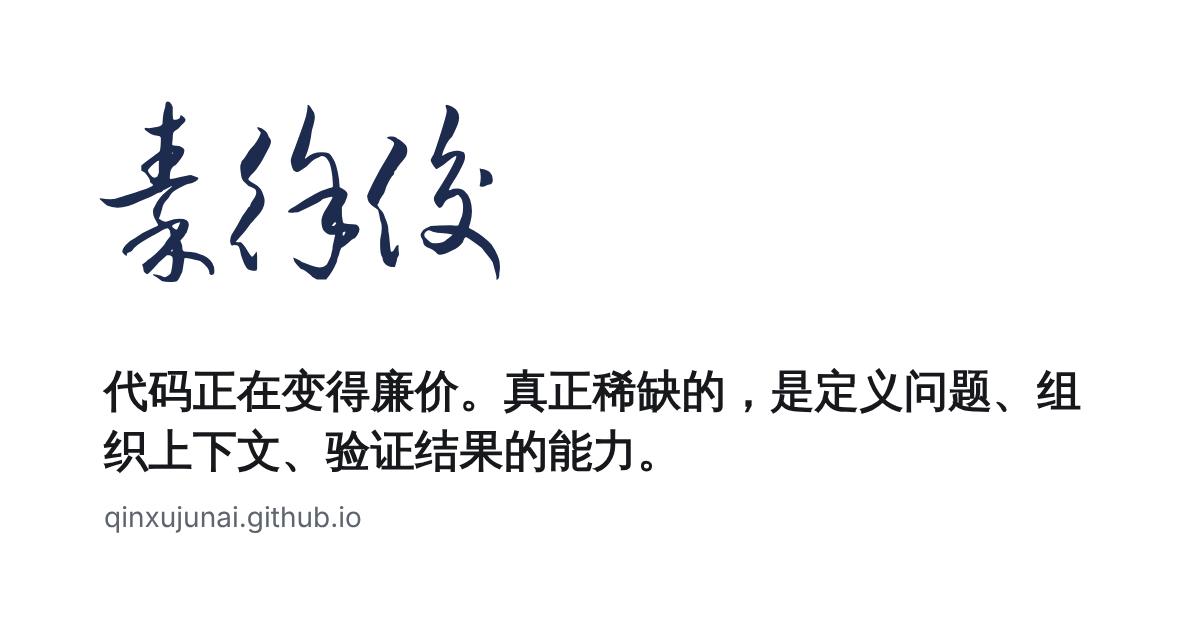
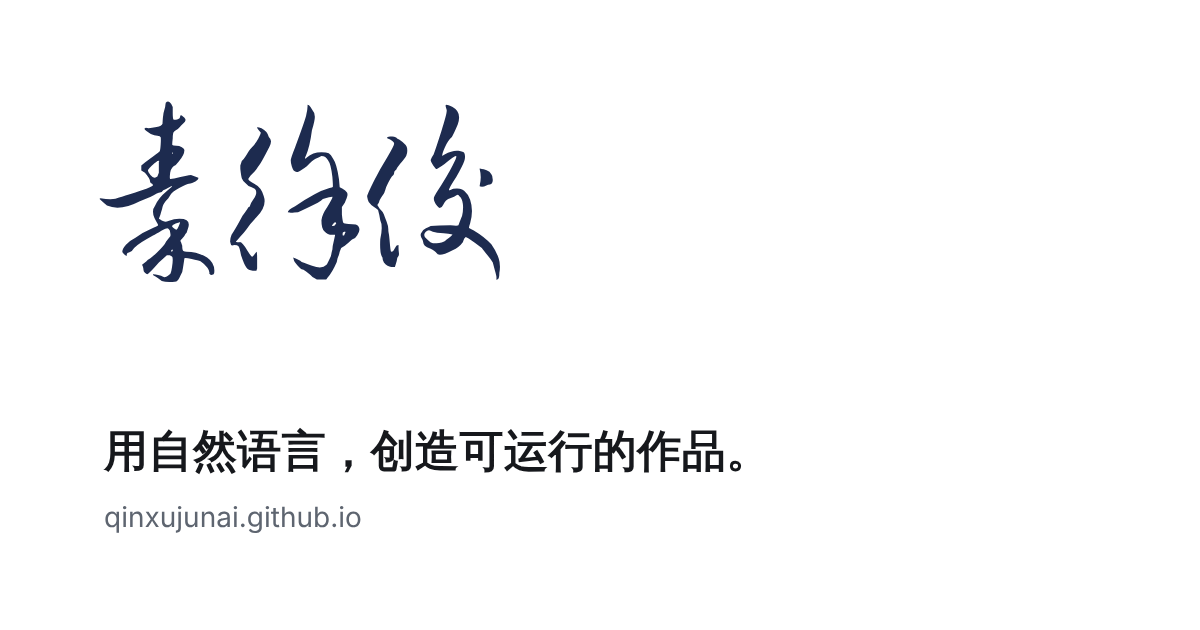
首屏改用本人写下的话；中文按词断行；作品列表统一单栏
- 首屏句换成他在 ai.vibecoding 亲手写下的「用自然语言，创造可运行的作品」
- 构建时用 Intl.Segmenter 按词插入 <wbr>，配合 keep-all，中文不再在词中间断行；人名、公司名整体不断
- 桌面端作品列表改为单栏，与手机一致
- 反馈记录链接注明为英文

Changed region(s): [[0.0617, 0.573, 0.8325, 0.754], [0.8633, 0.573, 0.8942, 0.6635]]

diff --git a/index.html b/index.html
@@ -4,7 +4,7 @@
 <meta charset="utf-8">
 <meta name="viewport" content="width=device-width, initial-scale=1, viewport-fit=cover">
 <title>秦徐俊</title>
-<meta name="description" content="代码正在变得廉价。真正稀缺的，是定义问题、组织上下文、验证结果的能力。秦徐俊的个人网站，作品有 VoiceFlow、万象成文、ai.vibecoding。">
+<meta name="description" content="用自然语言，创造可运行的作品。秦徐俊的个人网站，作品有 VoiceFlow、万象成文、ai.vibecoding。">
 <meta name="color-scheme" content="light dark">
 <meta name="theme-color" content="#ffffff">
 <script>(function(){var t=null;try{t=localStorage.getItem('qxj.theme')}catch(e){}if(t!=='light'&&t!=='dark'){t=window.matchMedia&&matchMedia('(prefers-color-scheme: dark)').matches?'dark':'light'}document.documentElement.dataset.theme=t;var m=document.querySelector('meta[name=theme-color]');if(m)m.setAttribute('content',t==='dark'?'#121316':'#ffffff');var r=document.documentElement,s=null;try{s=sessionStorage.getItem('qxj.signed')}catch(e){}if(s!=='1'&&!(window.matchMedia&&matchMedia('(prefers-reduced-motion: reduce)').matches)){r.classList.add('sig-pending');setTimeout(function(){r.classList.remove('sig-pending')},3000)}})()</script>
@@ -17,7 +17,7 @@
 <link rel="alternate" hreflang="x-default" href="https://qinxujunai.github.io/">
 <meta property="og:type" content="website">
 <meta property="og:title" content="秦徐俊">
-<meta property="og:description" content="代码正在变得廉价。真正稀缺的，是定义问题、组织上下文、验证结果的能力。秦徐俊的个人网站，作品有 VoiceFlow、万象成文、ai.vibecoding。">
+<meta property="og:description" content="用自然语言，创造可运行的作品。秦徐俊的个人网站，作品有 VoiceFlow、万象成文、ai.vibecoding。">
 <meta property="og:url" content="https://qinxujunai.github.io/">
 <meta property="og:image" content="https://qinxujunai.github.io/og.png">
 <meta property="og:image:width" content="1200">
@@ -37,8 +37,8 @@
 <main id="main">
 <header class="intro">
 <h1><svg class="sig" aria-hidden="true" focusable="false" viewBox="18 2 224 104"><path d="M56.8 5.2L56.8 5.2Q58 4.4 59.2 6.4L59.2 6.4L60 8L60 11.2Q60 14.4 60.4 14.8Q60.8 15.2 62.4 14.8L62.4 14.8Q64 14.4 64 13.6L64 13.6Q64 11.6 65.6 13.2L65.6 13.2Q66.4 13.6 66.8 14.4L66.8 14.4Q67.6 15.6 65.6 17.2L65.6 17.2Q64.4 18.4 64 18.8Q63.6 19.2 62.8 20L62.8 20Q61.6 20.8 60.8 21.4Q60 22 60 25.2L60 25.2Q59.6 28.4 59.8 28.8Q60 29.2 62 29.2L62 29.2Q63.6 29.2 65 30Q66.4 30.8 66.4 31.6L66.4 31.6Q66.4 34.4 63.2 38L63.2 38Q61.6 40 61.2 40Q60.8 40 59.8 41.2Q58.8 42.4 58.6 44Q58.4 45.6 58.4 46.4Q58.4 47.2 58.6 47.4Q58.8 47.6 60.8 47.2L60.8 47.2Q68.4 45.2 70 45.2L70 45.2Q72.4 46 74 46.8L74 46.8Q74.4 47.6 72.4 48.8L72.4 48.8Q71.6 49.2 70.6 49.6Q69.6 50 68.8 50L68.8 50Q68 50 63.8 52.2Q59.6 54.4 58.8 56L58.8 56L57.6 58Q54.8 60.8 54.4 62.8L54.4 62.8Q54.4 63.2 54 64.4Q53.6 65.6 53.2 67.2L53.2 67.2L52.4 69.2L53.2 69.6Q53.6 70 54.6 70.4Q55.6 70.8 56 70.8L56 70.8Q56.8 70.8 57.6 70.4L57.6 70.4Q60.8 69.2 63.6 69.2L63.6 69.2Q66.4 69.2 67.6 70Q68.8 70.8 68.8 72.4L68.8 72.4Q68.8 73.2 68.4 74.4Q68 75.6 67.6 76.8L67.6 76.8Q66.8 77.6 66.6 78.2Q66.4 78.8 65.2 80Q64 81.2 64.2 81.4Q64.4 81.6 65.2 84L65.2 84Q65.2 86.4 65.8 86.8Q66.4 87.2 67.6 87.2L67.6 87.2Q73.6 87.2 78.8 90.4L78.8 90.4Q82.8 93.2 82.8 97.6L82.8 97.6Q82.8 99.2 82.4 99.6L82.4 99.6Q80.8 100.4 80.4 99.6L80.4 99.6Q80 99.2 80 99.2L80 99.2Q80.4 98 79 96Q77.6 94 75.2 92.4L75.2 92.4Q74 92 70.4 91.2Q66.8 90.4 66.4 90.8L66.4 90.8Q66.4 90.8 66 93.6Q65.6 96.4 65.2 98.4L65.2 98.4Q64.4 100 63.6 101.6Q62.8 103.2 62 103.6L62 103.6Q60.8 104 58.2 103.8Q55.6 103.6 54 103.2L54 103.2Q50 100.4 49.2 100L49.2 100Q49.2 100 49.2 99.6L49.2 99.6Q50 99.6 53.6 100.4L53.6 100.4Q54.8 101.2 55.6 101.2L55.6 101.2Q56.4 101.2 57.4 100.4Q58.4 99.6 58.8 99.2L58.8 99.2Q59.2 98.4 59.6 95.8Q60 93.2 60 91.6L60 91.6Q60 90 59.6 89.8Q59.2 89.6 58.4 89.2L58.4 89.2L56.8 89.2L52.4 93.2Q46.8 99.6 46 99.6L46 99.6Q45.6 99.6 44.8 98.8Q44 98 44 97.2L44 97.2Q44 96.4 43.6 95.2L43.6 95.2L43.2 94.4L44.8 93.2Q46.4 91.6 46.4 91.6L46.4 91.6Q47.2 91.6 51.4 87.6Q55.6 83.6 56.4 81.6L56.4 81.6Q56.8 81.2 58 79.6L58 79.6Q58.8 78.8 58.8 78.2Q58.8 77.6 58.4 75.6L58.4 75.6Q57.6 74.4 57 74.4Q56.4 74.4 54 75.6L54 75.6Q50.8 77.6 49.2 78.4L49.2 78.4L45.6 80.4Q39.2 84 37.6 86.8L37.6 86.8Q36.4 87.6 36 87.6L36 87.6Q34.8 87.6 34.8 89.2L34.8 89.2Q34.8 89.6 34.8 89.6L34.8 89.6Q34.4 89.6 33.4 88.6Q32.4 87.6 32.4 87.2L32.4 87.2Q32.4 85.6 34.4 83.4Q36.4 81.2 39.6 79.6L39.6 79.6Q43.2 76.8 48 74.8L48 74.8Q52 73.2 52 72.8Q52 72.4 51.4 71.4Q50.8 70.4 50 68.8Q49.2 67.2 49.2 65.4Q49.2 63.6 50.4 62L50.4 62Q52 58 56.8 54L56.8 54L59.2 52Q59.6 51.6 59.6 51.2L59.6 51.2Q59.2 51.2 57.6 52.2Q56 53.2 54.8 53.6L54.8 53.6Q54 54.8 53 54.8Q52 54.8 48 57.2L48 57.2L42 59.6Q31.2 65.2 24 62L24 62Q21.2 59.6 20 58.4L20 58.4Q20 58 20.4 58L20.4 58Q26 58.8 28.6 58.2Q31.2 57.6 45.6 52.8L45.6 52.8Q49.2 51.2 49.2 50.8L49.2 50.8Q49.2 50 48 49.6L48 49.6Q47.6 49.2 47.6 48.8L47.6 48.8Q47.6 47.2 44.8 44L44.8 44L42.8 42.8L42.8 41.6L42.8 40L44.8 38.4Q46.8 36.8 49.6 34.8Q52.4 32.8 52.8 32.4Q53.2 32 53.4 28.6Q53.6 25.2 53.4 24.6Q53.2 24 51.6 23.8Q50 23.6 48 22.8L48 22.8Q47.2 22.4 45.6 21.2Q44 20 44.8 19.6L44.8 19.6Q44.8 19.2 46.8 19.6L46.8 19.6Q48.4 19.6 51.2 19Q54 18.4 54.4 17.2L54.4 17.2Q54.4 16.8 54.6 14Q54.8 11.2 55.4 9.6Q56 8 56 6.8Q56 5.6 56.8 5.2ZM60 33.6L60 33.6L60 33.2Q60 32.8 60 32.8L60 32.8Q59.6 33.2 59.6 33.2L59.6 33.2Q59.6 33.6 59.6 33.6L59.6 33.6Q59.6 33.6 60 33.6ZM52.4 38L52.4 38Q53.2 37.2 51.6 37.6L51.6 37.6Q51.2 38 50 38.8L50 38.8Q46.4 42 46.4 42.8L46.4 42.8Q46.4 43.6 47.8 45.2Q49.2 46.8 50 46.8L50 46.8Q50.4 46.8 51.6 46L51.6 46L52.4 44L52.4 41.6Q52.4 38.4 52.4 38ZM64 71.2L64 71.2Q64 70.8 63.6 71.2L63.6 71.2Q63.2 71.2 61.6 71.8Q60 72.4 59.6 73.2L59.6 73.2Q59.6 73.6 60.6 74.4Q61.6 75.2 62 75.2L62 75.2Q62.4 75.2 63.2 73.4Q64 71.6 64 71.2ZM60 86.4L60 86.4Q60 85.6 59.2 86.4L59.2 86.4Q59.2 86.8 59.2 87Q59.2 87.2 59.4 87.2Q59.6 87.2 59.8 87Q60 86.8 60 86.4Z"/><path d="M106.2 19.2L106.2 19.2Q106.2 18.8 108.6 19.6L108.6 19.6Q111.8 21.2 112.6 24.4L112.6 24.4Q113.8 25.6 113.8 26.8Q113.8 28 113.0 29.6Q112.2 31.2 110.0 35.4Q107.8 39.6 106.6 40.8L106.6 40.8Q105.8 42.4 103.6 44.6Q101.4 46.8 101.4 47.6L101.4 47.6Q101.4 48.4 104.6 50L104.6 50Q108.6 52 109.8 56.8L109.8 56.8Q111.8 62.4 105.8 68.4L105.8 68.4Q102.6 71.6 100.2 75.2L100.2 75.2Q99.0 76.8 96.8 79.2Q94.6 81.6 94.6 81.8Q94.6 82 95.4 82Q96.2 82 96.6 82L96.6 82Q97.8 81.6 101.0 86.8L101.0 86.8Q103.0 90 103.4 90Q103.8 90 104.8 88.6Q105.8 87.2 105.8 87.2L105.8 87.2Q106.2 87.2 106.2 90.8Q106.2 94.4 106.2 96.4L106.2 96.4L105.8 97.6L103.8 97.6Q101.4 97.6 100.2 95.8Q99.0 94 97.4 89.2L97.4 89.2Q96.6 84.8 96.0 84.2Q95.4 83.6 93.8 83.6L93.8 83.6Q92.2 84 92.0 83.6Q91.8 83.2 91.4 81.6L91.4 81.6Q91.4 80 92.2 78L92.2 78Q94.6 74.4 98.2 67.6L98.2 67.6Q100.6 64.4 101.0 63.6Q101.4 62.8 101.8 62.8Q102.2 62.8 102.4 61.8Q102.6 60.8 104.0 58.8Q105.4 56.8 105.6 55.8Q105.8 54.8 105.6 53.8Q105.4 52.8 103.2 52Q101.0 51.2 100.2 50L100.2 50Q98.2 48.4 97.8 47Q97.4 45.6 97.0 42L97.0 42L97.0 40L97.8 37.6Q99.0 36.4 100.0 34.8Q101.0 33.2 101.6 32.2Q102.2 31.2 103.4 30L103.4 30Q105.4 28 106.8 25.4Q108.2 22.8 108.2 22L108.2 22Q108.2 22 107.0 20.6Q105.8 19.2 106.2 19.2ZM133.8 7.6L133.8 7.6Q133.8 6.8 133.8 6.8L133.8 6.8Q134.6 6.8 135.4 8Q136.2 9.2 136.6 10L136.6 10Q137.8 11.2 137.8 13.4Q137.8 15.6 136.2 20.8L136.2 20.8Q135.0 30 133.0 34.4L133.0 34.4Q132.2 36 132.4 36.2Q132.6 36.4 133.4 35.6L133.4 35.6Q136.6 32.8 141.4 32.8L141.4 32.8Q144.2 32.8 145.4 33.4Q146.6 34 147.8 36.4L147.8 36.4Q149.8 39.2 151.0 47.6L151.0 47.6L151.4 52L153.0 52.8Q154.6 53.6 155.4 54.8L155.4 54.8Q155.8 55.6 155.6 56.6Q155.4 57.6 154.2 60.4L154.2 60.4L152.6 62.8L152.6 66.8Q153.0 70.8 153.4 71.4Q153.8 72 156.2 72Q158.6 72 160.2 72.4L160.2 72.4Q162.2 73.2 162.2 75.2L162.2 75.2Q162.2 76.4 161.0 78.2Q159.8 80 159.0 80.2Q158.2 80.4 157.2 81.4Q156.2 82.4 154.2 84L154.2 84L152.2 85.2L151.4 87.2Q151.0 89.2 150.6 89.8Q150.2 90.4 149.8 92.8L149.8 92.8Q147.4 98.4 144.6 101.6L144.6 101.6Q144.2 102.4 144.0 102.4Q143.8 102.4 141.6 102.4Q139.4 102.4 139.0 102.4Q138.6 102.4 138.2 102L138.2 102Q136.2 101.2 135.4 100L135.4 100Q134.6 99.2 133.0 98Q131.4 96.8 130.6 96.8L130.6 96.8Q130.2 96.8 128.2 94.6Q126.2 92.4 126.2 91.2L126.2 91.2Q125.8 90.4 125.8 90.4L125.8 90.4Q126.2 90.4 128.2 91.4Q130.2 92.4 130.6 92.8L130.6 92.8Q132.6 93.6 138.6 95.6L138.6 95.6Q142.2 96.4 144.2 94.4L144.2 94.4Q145.0 93.2 146.6 89.6L146.6 89.6Q147.0 87.2 147.4 86L147.4 86Q147.4 84.4 148.2 81.2Q149.0 78 148.8 78Q148.6 78 147.4 78L147.4 78Q144.6 78 143.0 76L143.0 76Q142.2 75.2 141.8 73.8Q141.4 72.4 141.4 70L141.4 70Q141.8 66.8 144.6 62.8L144.6 62.8Q147.8 57.6 147.4 57.2L147.4 57.2Q147.4 56.8 142.2 58.4L142.2 58.4Q141.4 59.2 139.4 60.4L139.4 60.4Q133.0 63.6 128.6 65.6L128.6 65.6Q127.8 65.6 126.4 65.8Q125.0 66 124.0 65.8Q123.0 65.6 123.0 65.6L123.0 65.6Q123.0 64.4 127.0 62.4L127.0 62.4Q138.6 54.4 145.8 52.4L145.8 52.4Q147.4 52 147.6 51.8Q147.8 51.6 147.4 46.4L147.4 46.4Q146.6 39.2 145.0 37.2L145.0 37.2Q143.8 34.8 141.4 34.8L141.4 34.8Q139.8 35.6 138.2 36.4Q136.6 37.2 133.4 40.4L133.4 40.4Q130.2 42.8 128.8 43.4Q127.4 44 126.2 42.8L126.2 42.8Q125.8 42.4 125.2 40.6Q124.6 38.8 124.6 37.2L124.6 37.2Q124.6 36 127.0 30L127.0 30Q132.2 16 133.0 12.8Q133.8 9.6 133.8 7.6ZM149.0 72.4L149.0 72.4Q149.8 71.6 149.2 71.2Q148.6 70.8 147.8 72L147.8 72Q146.6 73.2 147.8 73.2L147.8 73.2Q149.0 73.2 149.0 72.4ZM154.6 76.4L154.6 76.4Q154.2 76 153.8 76.4L153.8 76.4Q153.0 76.4 153.0 77.2Q153.0 78 153.0 78.2Q153.0 78.4 153.8 78.4L153.8 78.4Q153.8 78.4 154.2 77.4Q154.6 76.4 154.6 76.4Z"/><path d="M228.0 42L228.0 42Q228.0 42 228.0 41.8Q228.0 41.6 229.2 42L229.2 42Q230.0 42 231.8 42.6Q233.6 43.2 234.4 44.8L234.4 44.8Q235.2 45.6 235.2 48L235.2 48Q235.2 48.8 234.8 49.6Q234.4 50.4 233.6 50.4L233.6 50.4Q232.4 50.4 232.0 50.8L232.0 50.8Q229.6 52 228.8 51.6L228.8 51.6Q228.0 51.6 228.0 51.2L228.0 51.2Q229.2 46.4 228.0 42ZM177.6 24.4L177.6 24.4Q178.0 24 180.2 24.2Q182.4 24.4 182.8 25.2L182.8 25.2Q184.0 25.6 185.8 27.2Q187.6 28.8 188.0 29.6L188.0 29.6Q188.4 30.4 188.4 32L188.4 32Q188.4 33.6 187.8 34.8Q187.2 36 184.4 39.2L184.4 39.2Q182.8 41.2 182.6 41.8Q182.4 42.4 181.8 42.8Q181.2 43.2 181.2 44Q181.2 44.8 180.8 45.2L180.8 45.2Q179.2 46.4 176.8 52L176.8 52Q176.0 54.8 175.6 55.4Q175.2 56 174.2 57.4Q173.2 58.8 172.8 60.4L172.8 60.4L172.0 61.6L173.2 63.6Q175.2 65.6 175.6 66.8L175.6 66.8Q176.0 68 177.0 70.6Q178.0 73.2 178.0 74.8Q178.0 76.4 178.2 77Q178.4 77.6 178.8 82L178.8 82Q179.2 87.2 179.6 87.2L179.6 87.2Q180.8 87.2 181.2 86L181.2 86Q181.6 85.2 182.0 84.6Q182.4 84 182.6 83.8Q182.8 83.6 183.6 83.6L183.6 83.6Q183.6 83.6 183.6 85Q183.6 86.4 183.8 87.8Q184.0 89.2 183.4 89.8Q182.8 90.4 182.8 91.2Q182.8 92 182.0 94.4L182.0 94.4L181.6 95.6L179.6 95.6Q177.6 95.6 175.6 93.2L175.6 93.2Q174.8 91.6 174.8 90.4L174.8 90.4Q173.2 88.4 173.6 80.4L173.6 80.4Q175.2 73.2 173.6 70L173.6 70Q173.2 67.2 172.4 64.4L172.4 64.4Q171.6 63.6 170.0 62.6Q168.4 61.6 168.0 60.8L168.0 60.8Q167.2 60.4 166.8 58.8Q166.4 57.2 166.4 56.8L166.4 56.8Q166.8 55.2 170.2 48.4Q173.6 41.6 177.6 35.2L177.6 35.2Q181.2 29.2 181.2 28L181.2 28Q181.2 27.2 180.2 26.6Q179.2 26 178.4 25.6L178.4 25.6Q176.8 25.2 177.6 24.4ZM213.2 8L213.2 8Q218.4 10.8 216.0 17.6L216.0 17.6Q214.0 22.4 212.8 24.4L212.8 24.4Q210.8 26 209.0 30Q207.2 34 207.6 34.8L207.6 34.8Q207.6 34.8 208.8 34L208.8 34Q213.2 31.6 216.4 32L216.4 32Q219.2 32.4 219.6 33.2L219.6 33.2Q220.4 35.2 219.6 37.6L219.6 37.6Q218.8 40 215.2 46.4L215.2 46.4Q211.2 52.4 211.2 53.6L211.2 53.6Q211.2 53.6 211.6 53.6Q212.0 53.6 212.6 53.2Q213.2 52.8 213.6 52.8L213.6 52.8Q218.4 52 220.4 54.8L220.4 54.8Q222.0 56 222.8 58.8L222.8 58.8Q224.8 64.8 222.8 71.6L222.8 71.6Q222.0 74 222.2 74.2Q222.4 74.4 224.8 75.6L224.8 75.6Q230.8 79.2 234.4 83.2L234.4 83.2Q237.2 87.2 238.4 90.8Q239.6 94.4 238.8 98.8L238.8 98.8Q238.8 102.4 237.6 102.4L237.6 102.4Q237.2 102.8 237.2 102.6Q237.2 102.4 237.2 101.2L237.2 101.2Q237.2 100.4 236.4 97.6Q235.6 94.8 235.2 93.2L235.2 93.2Q234.4 91.6 232.2 89Q230.0 86.4 229.2 85.2L229.2 85.2Q225.6 82.4 222.0 80L222.0 80L220.4 79.2L219.6 80Q219.2 80.8 218.8 82L218.8 82Q216.8 84.8 213.2 86.4L213.2 86.4Q205.6 90.4 204.4 88L204.4 88Q204.0 87.2 201.2 85.6L201.2 85.6Q198.8 84.8 198.0 84Q197.2 83.2 196.8 80.8L196.8 80.8Q194.8 78 196.4 76.4L196.4 76.4Q196.8 75.2 198.6 74.4Q200.4 73.6 201.2 73.2L201.2 73.2Q205.6 72.8 212.0 72.8L212.0 72.8Q216.0 73.2 216.4 72.8L216.4 72.8Q216.8 71.6 218.4 67.6L218.4 67.6Q219.2 64 218.8 61Q218.4 58 216.8 56.8L216.8 56.8Q216.4 56 216.0 56Q215.6 56 214.0 57.2L214.0 57.2Q212.0 58 210.8 58.4L210.8 58.4Q209.6 58.8 208.0 61.6L208.0 61.6Q207.2 63.2 206.4 63.2L206.4 63.2Q206.0 63.6 204.8 62.2Q203.6 60.8 203.2 59.6L203.2 59.6Q202.8 58.4 203.0 57.6Q203.2 56.8 204.4 54.8L204.4 54.8Q210.4 45.6 213.2 40L213.2 40Q216.0 34.8 215.0 34.8Q214.0 34.8 208.8 39.2L208.8 39.2Q204.8 42 204.4 42Q204.0 42 202.6 40Q201.2 38 201.2 37.2Q201.2 36.4 202.8 34L202.8 34Q204.0 30.8 207.0 21.4Q210.0 12 210.0 10L210.0 10Q210.0 9.6 209.6 8.4Q209.2 7.2 209.4 7Q209.6 6.8 209.8 6.8Q210.0 6.8 211.0 7Q212.0 7.2 213.2 8ZM200.8 75.6L200.8 75.6Q199.6 75.2 198.4 76.4L198.4 76.4Q197.2 77.6 198.0 79.2L198.0 79.2Q198.4 79.6 199.8 81Q201.2 82.4 202.0 82.4L202.0 82.4Q202.8 82.8 205.8 82.4Q208.8 82 209.6 80.8L209.6 80.8Q210.4 80.4 211.8 79.2Q213.2 78 213.2 78L213.2 78Q212.8 77.2 204.8 76.8L204.8 76.8Q202.0 76.4 200.8 75.6Z"/></svg><span class="visually-hidden">秦徐俊</span></h1>
-<p class="lede">代码正在变得廉价。真正稀缺的，是定义问题、组织上下文、验证结果的能力。</p>
-<p class="now">我是秦徐俊，在奥普智能做云 AI 项目经理。工作之外，我把自己想用的工具亲手做出来。</p>
+<p class="lede">用<wbr>自然语言，<wbr>创造<wbr>可运行的作品。</p>
+<p class="now">我是<wbr>秦徐俊，<wbr>在<wbr>奥普智能<wbr>做<wbr>云 AI 项目经理。<wbr>工作<wbr>之外，<wbr>我把<wbr>自己<wbr>想用<wbr>的<wbr>工具<wbr>亲手做<wbr>出来。</p>
 <p class="actions"><a class="button primary" href="#contact">加我微信</a><a class="button" href="#work">看看作品</a></p>
 </header>
 
@@ -46,33 +46,33 @@
 <h2 id="work-title">作品</h2>
 <article class="feature" id="voiceflow">
 <h3>VoiceFlow</h3>
-<p class="tagline">让想法成文。按一下，说出你的话。</p>
+<p class="tagline">让<wbr>想法<wbr>成文。<wbr>按<wbr>一下，<wbr>说出<wbr>你<wbr>的话。</p>
 <div class="stage voice" role="img" aria-label="VoiceFlow: 按一下开始，再按一下完成. 明早十点，把方案同步给团队。">
 <kbd aria-hidden="true">F2</kbd>
 <p class="hint" aria-hidden="true">按一下开始，再按一下完成</p>
 <div class="capsule" aria-hidden="true"><span class="bars"><i></i><i></i><i></i></span><span>明早十点，把方案同步给团队。<span class="caret"></span></span></div>
 </div>
-<p class="desc">Windows 离线语音输入。在你正在用的输入框里听写，录音和识别都留在自己的电脑上。</p>
-<p class="decision">用户提过 12 条反馈，我逐条写下处理结论和理由。比如没有加在线识别：它会打破离线这个承诺。 <a href="https://github.com/qinxujunai/VoiceFlow/blob/master/docs/feedback-review-2026-07-28.md" rel="noopener">看反馈与决策记录</a></p>
+<p class="desc">Windows 离线<wbr>语音<wbr>输入。<wbr>在<wbr>你<wbr>正在<wbr>用<wbr>的<wbr>输入<wbr>框<wbr>里<wbr>听写，<wbr>录音<wbr>和<wbr>识别<wbr>都<wbr>留在<wbr>自己<wbr>的<wbr>电脑<wbr>上。</p>
+<p class="decision">用户<wbr>提过 12 条<wbr>反馈，<wbr>我<wbr>逐条<wbr>写下<wbr>处理<wbr>结论<wbr>和<wbr>理由。<wbr>比如<wbr>没有<wbr>加<wbr>在线识别：<wbr>它<wbr>会<wbr>打破<wbr>离线<wbr>这个<wbr>承诺。 <a href="https://github.com/qinxujunai/VoiceFlow/blob/master/docs/feedback-review-2026-07-28.md" rel="noopener">看反馈与决策记录（英文）</a></p>
 <p class="links"><a href="https://qinxujunai.github.io/VoiceFlow/" rel="noopener">官网<span class="visually-hidden">: VoiceFlow</span></a><a href="https://github.com/qinxujunai/VoiceFlow" rel="noopener">源码<span class="visually-hidden">: VoiceFlow</span></a></p>
 </article>
 <ul class="work">
 <li id="wanxiang">
 <h3>万象成文</h3>
-<p class="tagline">把视频、播客和图文，直接变成可用的文字与媒体。</p>
-<p class="desc">Windows 本地优先。只做三件事：音视频转文字、提取图文、下载原始媒体；账号和支付都不做。</p>
+<p class="tagline">把<wbr>视频、<wbr>播<wbr>客<wbr>和<wbr>图<wbr>文，<wbr>直接<wbr>变成<wbr>可用<wbr>的<wbr>文字<wbr>与<wbr>媒体。</p>
+<p class="desc">Windows 本地<wbr>优先。<wbr>只做<wbr>三<wbr>件<wbr>事：<wbr>音<wbr>视频<wbr>转<wbr>文字、<wbr>提取<wbr>图<wbr>文、<wbr>下载<wbr>原始<wbr>媒体；<wbr>账<wbr>号<wbr>和<wbr>支付<wbr>都不<wbr>做。</p>
 <p class="links"><a href="https://qinxujunai.github.io/Audio2Text/" rel="noopener">官网<span class="visually-hidden">: 万象成文</span></a><a href="https://github.com/qinxujunai/Audio2Text" rel="noopener">源码<span class="visually-hidden">: 万象成文</span></a></p>
 </li>
 <li id="vibecoding">
 <h3>ai.vibecoding</h3>
-<p class="tagline">用自然语言，创造可运行的作品。</p>
-<p class="desc">我写下的自然语言编程方法：先访谈，再计划，实现之后拿证据验证。附七段可以直接复制的指令。</p>
+<p class="tagline">自然语言<wbr>编<wbr>程<wbr>的<wbr>工程<wbr>化<wbr>实践。</p>
+<p class="desc">我<wbr>写下<wbr>的<wbr>自然语言<wbr>编<wbr>程<wbr>方法：<wbr>先<wbr>访<wbr>谈，<wbr>再<wbr>计划，<wbr>实现<wbr>之后<wbr>拿<wbr>证据<wbr>验证。<wbr>附<wbr>七<wbr>段<wbr>可以<wbr>直接<wbr>复制<wbr>的<wbr>指令。</p>
 <p class="links"><a href="https://qinxujunai.github.io/qinxujun-ai-vibecoding/" rel="noopener">官网<span class="visually-hidden">: ai.vibecoding</span></a><a href="https://github.com/qinxujunai/qinxujun-ai-vibecoding" rel="noopener">源码<span class="visually-hidden">: ai.vibecoding</span></a></p>
 </li>
 <li id="work-method">
 <h3>AI Work Method</h3>
-<p class="tagline">把 AI 用成能力。</p>
-<p class="desc">给职场人的 AI 实战课程，八章：从高质量对话、智能体协作，到可验收的交付。</p>
+<p class="tagline">把 AI 用<wbr>成<wbr>能力。</p>
+<p class="desc">给<wbr>职场<wbr>人的 AI 实战<wbr>课程，<wbr>八章：<wbr>从<wbr>高<wbr>质量<wbr>对话、<wbr>智能体<wbr>协作，<wbr>到<wbr>可<wbr>验收<wbr>的<wbr>交付。</p>
 <p class="links"><a href="https://qinxujunai.github.io/ai-work-method/" rel="noopener">官网<span class="visually-hidden">: AI Work Method</span></a><a href="https://github.com/qinxujunai/ai-work-method" rel="noopener">源码<span class="visually-hidden">: AI Work Method</span></a></p>
 </li>
 </ul>
@@ -81,14 +81,14 @@
 
 <section id="about" class="about" aria-labelledby="about-title">
 <h2 id="about-title">关于</h2>
-<p>我学的是网络与新媒体，最早的工作是拍片、写脚本、做内容。后来负责把 AI 接进公司的内容生产，再为企业客户设计 AI 方案。现在在奥普智能，做云 AI 项目经理。</p>
-<p>和 AI 对话时，补充背景往往比一句指令更长，于是有了 VoiceFlow；想把视频和播客变成能用的文字，于是有了万象成文。</p>
-<p>我相信做产品要慢一点：先问清楚要解决什么，再动手；对外说出的每个承诺，都要能被验证。</p>
+<p>我<wbr>学<wbr>的是<wbr>网络<wbr>与<wbr>新<wbr>媒体，<wbr>最早<wbr>的<wbr>工作<wbr>是<wbr>拍片、<wbr>写<wbr>脚本、<wbr>做<wbr>内容。<wbr>后来<wbr>负责<wbr>把 AI 接进<wbr>公司<wbr>的<wbr>内容生产，<wbr>再<wbr>为<wbr>企业<wbr>客户<wbr>设计 AI 方案。<wbr>现在<wbr>在<wbr>奥普智能，<wbr>做<wbr>云 AI 项目经理。</p>
+<p>和 AI 对话<wbr>时，<wbr>补充<wbr>背景<wbr>往往<wbr>比<wbr>一句<wbr>指令<wbr>更<wbr>长，<wbr>于是<wbr>有了 VoiceFlow；<wbr>想把<wbr>视频<wbr>和<wbr>播<wbr>客<wbr>变成<wbr>能<wbr>用<wbr>的<wbr>文字，<wbr>于是<wbr>有了<wbr>万象成文。</p>
+<p>我<wbr>相信<wbr>做<wbr>产品<wbr>要<wbr>慢<wbr>一点：<wbr>先<wbr>问<wbr>清楚<wbr>要<wbr>解决<wbr>什么，<wbr>再<wbr>动手；<wbr>对外<wbr>说出<wbr>的<wbr>每<wbr>个<wbr>承诺，<wbr>都要<wbr>能<wbr>被<wbr>验证。</p>
 </section>
 
 <section id="contact" class="contact" aria-labelledby="contact-title">
 <h2 id="contact-title">联系</h2>
-<p>想聊 AI 产品，或者只是打个招呼，都欢迎加我微信。</p>
+<p>想<wbr>聊 AI 产品，<wbr>或者<wbr>只是<wbr>打个<wbr>招呼，<wbr>都<wbr>欢迎<wbr>加<wbr>我<wbr>微<wbr>信。</p>
 <img class="qr" src="/assets/wechat-qr.png" width="232" height="232" alt="秦徐俊的微信二维码" decoding="async">
 <p class="qr-hint" data-qr-hint data-hint-wechat="长按二维码，选择「识别图中的二维码」即可添加；也可以保存到相册。" data-hint-phone="先保存或截图，再在微信「扫一扫」里从相册选这张图。" data-hint-desktop="打开手机微信，用「扫一扫」扫这张二维码。">用微信扫一扫；在微信里打开时，长按二维码即可识别。</p>
 <p class="actions"><a class="button" href="/assets/wechat-qr.png" download="qin-xujun-wechat.png" data-qr-save>保存二维码</a><a class="button" href="https://github.com/qinxujunai" rel="noopener">我的 GitHub</a></p>

diff --git a/en/index.html b/en/index.html
@@ -4,7 +4,7 @@
 <meta charset="utf-8">
 <meta name="viewport" content="width=device-width, initial-scale=1, viewport-fit=cover">
 <title>Qin Xujun</title>
-<meta name="description" content="Code is getting cheap. What stays scarce is defining the problem, curating context, and verifying the result. The personal site of Qin Xujun, maker of VoiceFlow, Wanxiang and ai.vibecoding.">
+<meta name="description" content="Use natural language to create working products. The personal site of Qin Xujun, maker of VoiceFlow, Wanxiang and ai.vibecoding.">
 <meta name="color-scheme" content="light dark">
 <meta name="theme-color" content="#ffffff">
 <script>(function(){var t=null;try{t=localStorage.getItem('qxj.theme')}catch(e){}if(t!=='light'&&t!=='dark'){t=window.matchMedia&&matchMedia('(prefers-color-scheme: dark)').matches?'dark':'light'}document.documentElement.dataset.theme=t;var m=document.querySelector('meta[name=theme-color]');if(m)m.setAttribute('content',t==='dark'?'#121316':'#ffffff');var r=document.documentElement,s=null;try{s=sessionStorage.getItem('qxj.signed')}catch(e){}if(s!=='1'&&!(window.matchMedia&&matchMedia('(prefers-reduced-motion: reduce)').matches)){r.classList.add('sig-pending');setTimeout(function(){r.classList.remove('sig-pending')},3000)}})()</script>
@@ -17,7 +17,7 @@
 <link rel="alternate" hreflang="x-default" href="https://qinxujunai.github.io/">
 <meta property="og:type" content="website">
 <meta property="og:title" content="Qin Xujun">
-<meta property="og:description" content="Code is getting cheap. What stays scarce is defining the problem, curating context, and verifying the result. The personal site of Qin Xujun, maker of VoiceFlow, Wanxiang and ai.vibecoding.">
+<meta property="og:description" content="Use natural language to create working products. The personal site of Qin Xujun, maker of VoiceFlow, Wanxiang and ai.vibecoding.">
 <meta property="og:url" content="https://qinxujunai.github.io/en/">
 <meta property="og:image" content="https://qinxujunai.github.io/og.png">
 <meta property="og:image:width" content="1200">
@@ -37,7 +37,7 @@
 <main id="main">
 <header class="intro">
 <h1><svg class="sig" aria-hidden="true" focusable="false" viewBox="18 2 224 104"><path d="M56.8 5.2L56.8 5.2Q58 4.4 59.2 6.4L59.2 6.4L60 8L60 11.2Q60 14.4 60.4 14.8Q60.8 15.2 62.4 14.8L62.4 14.8Q64 14.4 64 13.6L64 13.6Q64 11.6 65.6 13.2L65.6 13.2Q66.4 13.6 66.8 14.4L66.8 14.4Q67.6 15.6 65.6 17.2L65.6 17.2Q64.4 18.4 64 18.8Q63.6 19.2 62.8 20L62.8 20Q61.6 20.8 60.8 21.4Q60 22 60 25.2L60 25.2Q59.6 28.4 59.8 28.8Q60 29.2 62 29.2L62 29.2Q63.6 29.2 65 30Q66.4 30.8 66.4 31.6L66.4 31.6Q66.4 34.4 63.2 38L63.2 38Q61.6 40 61.2 40Q60.8 40 59.8 41.2Q58.8 42.4 58.6 44Q58.4 45.6 58.4 46.4Q58.4 47.2 58.6 47.4Q58.8 47.6 60.8 47.2L60.8 47.2Q68.4 45.2 70 45.2L70 45.2Q72.4 46 74 46.8L74 46.8Q74.4 47.6 72.4 48.8L72.4 48.8Q71.6 49.2 70.6 49.6Q69.6 50 68.8 50L68.8 50Q68 50 63.8 52.2Q59.6 54.4 58.8 56L58.8 56L57.6 58Q54.8 60.8 54.4 62.8L54.4 62.8Q54.4 63.2 54 64.4Q53.6 65.6 53.2 67.2L53.2 67.2L52.4 69.2L53.2 69.6Q53.6 70 54.6 70.4Q55.6 70.8 56 70.8L56 70.8Q56.8 70.8 57.6 70.4L57.6 70.4Q60.8 69.2 63.6 69.2L63.6 69.2Q66.4 69.2 67.6 70Q68.8 70.8 68.8 72.4L68.8 72.4Q68.8 73.2 68.4 74.4Q68 75.6 67.6 76.8L67.6 76.8Q66.8 77.6 66.6 78.2Q66.4 78.8 65.2 80Q64 81.2 64.2 81.4Q64.4 81.6 65.2 84L65.2 84Q65.2 86.4 65.8 86.8Q66.4 87.2 67.6 87.2L67.6 87.2Q73.6 87.2 78.8 90.4L78.8 90.4Q82.8 93.2 82.8 97.6L82.8 97.6Q82.8 99.2 82.4 99.6L82.4 99.6Q80.8 100.4 80.4 99.6L80.4 99.6Q80 99.2 80 99.2L80 99.2Q80.4 98 79 96Q77.6 94 75.2 92.4L75.2 92.4Q74 92 70.4 91.2Q66.8 90.4 66.4 90.8L66.4 90.8Q66.4 90.8 66 93.6Q65.6 96.4 65.2 98.4L65.2 98.4Q64.4 100 63.6 101.6Q62.8 103.2 62 103.6L62 103.6Q60.8 104 58.2 103.8Q55.6 103.6 54 103.2L54 103.2Q50 100.4 49.2 100L49.2 100Q49.2 100 49.2 99.6L49.2 99.6Q50 99.6 53.6 100.4L53.6 100.4Q54.8 101.2 55.6 101.2L55.6 101.2Q56.4 101.2 57.4 100.4Q58.4 99.6 58.8 99.2L58.8 99.2Q59.2 98.4 59.6 95.8Q60 93.2 60 91.6L60 91.6Q60 90 59.6 89.8Q59.2 89.6 58.4 89.2L58.4 89.2L56.8 89.2L52.4 93.2Q46.8 99.6 46 99.6L46 99.6Q45.6 99.6 44.8 98.8Q44 98 44 97.2L44 97.2Q44 96.4 43.6 95.2L43.6 95.2L43.2 94.4L44.8 93.2Q46.4 91.6 46.4 91.6L46.4 91.6Q47.2 91.6 51.4 87.6Q55.6 83.6 56.4 81.6L56.4 81.6Q56.8 81.2 58 79.6L58 79.6Q58.8 78.8 58.8 78.2Q58.8 77.6 58.4 75.6L58.4 75.6Q57.6 74.4 57 74.4Q56.4 74.4 54 75.6L54 75.6Q50.8 77.6 49.2 78.4L49.2 78.4L45.6 80.4Q39.2 84 37.6 86.8L37.6 86.8Q36.4 87.6 36 87.6L36 87.6Q34.8 87.6 34.8 89.2L34.8 89.2Q34.8 89.6 34.8 89.6L34.8 89.6Q34.4 89.6 33.4 88.6Q32.4 87.6 32.4 87.2L32.4 87.2Q32.4 85.6 34.4 83.4Q36.4 81.2 39.6 79.6L39.6 79.6Q43.2 76.8 48 74.8L48 74.8Q52 73.2 52 72.8Q52 72.4 51.4 71.4Q50.8 70.4 50 68.8Q49.2 67.2 49.2 65.4Q49.2 63.6 50.4 62L50.4 62Q52 58 56.8 54L56.8 54L59.2 52Q59.6 51.6 59.6 51.2L59.6 51.2Q59.2 51.2 57.6 52.2Q56 53.2 54.8 53.6L54.8 53.6Q54 54.8 53 54.8Q52 54.8 48 57.2L48 57.2L42 59.6Q31.2 65.2 24 62L24 62Q21.2 59.6 20 58.4L20 58.4Q20 58 20.4 58L20.4 58Q26 58.8 28.6 58.2Q31.2 57.6 45.6 52.8L45.6 52.8Q49.2 51.2 49.2 50.8L49.2 50.8Q49.2 50 48 49.6L48 49.6Q47.6 49.2 47.6 48.8L47.6 48.8Q47.6 47.2 44.8 44L44.8 44L42.8 42.8L42.8 41.6L42.8 40L44.8 38.4Q46.8 36.8 49.6 34.8Q52.4 32.8 52.8 32.4Q53.2 32 53.4 28.6Q53.6 25.2 53.4 24.6Q53.2 24 51.6 23.8Q50 23.6 48 22.8L48 22.8Q47.2 22.4 45.6 21.2Q44 20 44.8 19.6L44.8 19.6Q44.8 19.2 46.8 19.6L46.8 19.6Q48.4 19.6 51.2 19Q54 18.4 54.4 17.2L54.4 17.2Q54.4 16.8 54.6 14Q54.8 11.2 55.4 9.6Q56 8 56 6.8Q56 5.6 56.8 5.2ZM60 33.6L60 33.6L60 33.2Q60 32.8 60 32.8L60 32.8Q59.6 33.2 59.6 33.2L59.6 33.2Q59.6 33.6 59.6 33.6L59.6 33.6Q59.6 33.6 60 33.6ZM52.4 38L52.4 38Q53.2 37.2 51.6 37.6L51.6 37.6Q51.2 38 50 38.8L50 38.8Q46.4 42 46.4 42.8L46.4 42.8Q46.4 43.6 47.8 45.2Q49.2 46.8 50 46.8L50 46.8Q50.4 46.8 51.6 46L51.6 46L52.4 44L52.4 41.6Q52.4 38.4 52.4 38ZM64 71.2L64 71.2Q64 70.8 63.6 71.2L63.6 71.2Q63.2 71.2 61.6 71.8Q60 72.4 59.6 73.2L59.6 73.2Q59.6 73.6 60.6 74.4Q61.6 75.2 62 75.2L62 75.2Q62.4 75.2 63.2 73.4Q64 71.6 64 71.2ZM60 86.4L60 86.4Q60 85.6 59.2 86.4L59.2 86.4Q59.2 86.8 59.2 87Q59.2 87.2 59.4 87.2Q59.6 87.2 59.8 87Q60 86.8 60 86.4Z"/><path d="M106.2 19.2L106.2 19.2Q106.2 18.8 108.6 19.6L108.6 19.6Q111.8 21.2 112.6 24.4L112.6 24.4Q113.8 25.6 113.8 26.8Q113.8 28 113.0 29.6Q112.2 31.2 110.0 35.4Q107.8 39.6 106.6 40.8L106.6 40.8Q105.8 42.4 103.6 44.6Q101.4 46.8 101.4 47.6L101.4 47.6Q101.4 48.4 104.6 50L104.6 50Q108.6 52 109.8 56.8L109.8 56.8Q111.8 62.4 105.8 68.4L105.8 68.4Q102.6 71.6 100.2 75.2L100.2 75.2Q99.0 76.8 96.8 79.2Q94.6 81.6 94.6 81.8Q94.6 82 95.4 82Q96.2 82 96.6 82L96.6 82Q97.8 81.6 101.0 86.8L101.0 86.8Q103.0 90 103.4 90Q103.8 90 104.8 88.6Q105.8 87.2 105.8 87.2L105.8 87.2Q106.2 87.2 106.2 90.8Q106.2 94.4 106.2 96.4L106.2 96.4L105.8 97.6L103.8 97.6Q101.4 97.6 100.2 95.8Q99.0 94 97.4 89.2L97.4 89.2Q96.6 84.8 96.0 84.2Q95.4 83.6 93.8 83.6L93.8 83.6Q92.2 84 92.0 83.6Q91.8 83.2 91.4 81.6L91.4 81.6Q91.4 80 92.2 78L92.2 78Q94.6 74.4 98.2 67.6L98.2 67.6Q100.6 64.4 101.0 63.6Q101.4 62.8 101.8 62.8Q102.2 62.8 102.4 61.8Q102.6 60.8 104.0 58.8Q105.4 56.8 105.6 55.8Q105.8 54.8 105.6 53.8Q105.4 52.8 103.2 52Q101.0 51.2 100.2 50L100.2 50Q98.2 48.4 97.8 47Q97.4 45.6 97.0 42L97.0 42L97.0 40L97.8 37.6Q99.0 36.4 100.0 34.8Q101.0 33.2 101.6 32.2Q102.2 31.2 103.4 30L103.4 30Q105.4 28 106.8 25.4Q108.2 22.8 108.2 22L108.2 22Q108.2 22 107.0 20.6Q105.8 19.2 106.2 19.2ZM133.8 7.6L133.8 7.6Q133.8 6.8 133.8 6.8L133.8 6.8Q134.6 6.8 135.4 8Q136.2 9.2 136.6 10L136.6 10Q137.8 11.2 137.8 13.4Q137.8 15.6 136.2 20.8L136.2 20.8Q135.0 30 133.0 34.4L133.0 34.4Q132.2 36 132.4 36.2Q132.6 36.4 133.4 35.6L133.4 35.6Q136.6 32.8 141.4 32.8L141.4 32.8Q144.2 32.8 145.4 33.4Q146.6 34 147.8 36.4L147.8 36.4Q149.8 39.2 151.0 47.6L151.0 47.6L151.4 52L153.0 52.8Q154.6 53.6 155.4 54.8L155.4 54.8Q155.8 55.6 155.6 56.6Q155.4 57.6 154.2 60.4L154.2 60.4L152.6 62.8L152.6 66.8Q153.0 70.8 153.4 71.4Q153.8 72 156.2 72Q158.6 72 160.2 72.4L160.2 72.4Q162.2 73.2 162.2 75.2L162.2 75.2Q162.2 76.4 161.0 78.2Q159.8 80 159.0 80.2Q158.2 80.4 157.2 81.4Q156.2 82.4 154.2 84L154.2 84L152.2 85.2L151.4 87.2Q151.0 89.2 150.6 89.8Q150.2 90.4 149.8 92.8L149.8 92.8Q147.4 98.4 144.6 101.6L144.6 101.6Q144.2 102.4 144.0 102.4Q143.8 102.4 141.6 102.4Q139.4 102.4 139.0 102.4Q138.6 102.4 138.2 102L138.2 102Q136.2 101.2 135.4 100L135.4 100Q134.6 99.2 133.0 98Q131.4 96.8 130.6 96.8L130.6 96.8Q130.2 96.8 128.2 94.6Q126.2 92.4 126.2 91.2L126.2 91.2Q125.8 90.4 125.8 90.4L125.8 90.4Q126.2 90.4 128.2 91.4Q130.2 92.4 130.6 92.8L130.6 92.8Q132.6 93.6 138.6 95.6L138.6 95.6Q142.2 96.4 144.2 94.4L144.2 94.4Q145.0 93.2 146.6 89.6L146.6 89.6Q147.0 87.2 147.4 86L147.4 86Q147.4 84.4 148.2 81.2Q149.0 78 148.8 78Q148.6 78 147.4 78L147.4 78Q144.6 78 143.0 76L143.0 76Q142.2 75.2 141.8 73.8Q141.4 72.4 141.4 70L141.4 70Q141.8 66.8 144.6 62.8L144.6 62.8Q147.8 57.6 147.4 57.2L147.4 57.2Q147.4 56.8 142.2 58.4L142.2 58.4Q141.4 59.2 139.4 60.4L139.4 60.4Q133.0 63.6 128.6 65.6L128.6 65.6Q127.8 65.6 126.4 65.8Q125.0 66 124.0 65.8Q123.0 65.6 123.0 65.6L123.0 65.6Q123.0 64.4 127.0 62.4L127.0 62.4Q138.6 54.4 145.8 52.4L145.8 52.4Q147.4 52 147.6 51.8Q147.8 51.6 147.4 46.4L147.4 46.4Q146.6 39.2 145.0 37.2L145.0 37.2Q143.8 34.8 141.4 34.8L141.4 34.8Q139.8 35.6 138.2 36.4Q136.6 37.2 133.4 40.4L133.4 40.4Q130.2 42.8 128.8 43.4Q127.4 44 126.2 42.8L126.2 42.8Q125.8 42.4 125.2 40.6Q124.6 38.8 124.6 37.2L124.6 37.2Q124.6 36 127.0 30L127.0 30Q132.2 16 133.0 12.8Q133.8 9.6 133.8 7.6ZM149.0 72.4L149.0 72.4Q149.8 71.6 149.2 71.2Q148.6 70.8 147.8 72L147.8 72Q146.6 73.2 147.8 73.2L147.8 73.2Q149.0 73.2 149.0 72.4ZM154.6 76.4L154.6 76.4Q154.2 76 153.8 76.4L153.8 76.4Q153.0 76.4 153.0 77.2Q153.0 78 153.0 78.2Q153.0 78.4 153.8 78.4L153.8 78.4Q153.8 78.4 154.2 77.4Q154.6 76.4 154.6 76.4Z"/><path d="M228.0 42L228.0 42Q228.0 42 228.0 41.8Q228.0 41.6 229.2 42L229.2 42Q230.0 42 231.8 42.6Q233.6 43.2 234.4 44.8L234.4 44.8Q235.2 45.6 235.2 48L235.2 48Q235.2 48.8 234.8 49.6Q234.4 50.4 233.6 50.4L233.6 50.4Q232.4 50.4 232.0 50.8L232.0 50.8Q229.6 52 228.8 51.6L228.8 51.6Q228.0 51.6 228.0 51.2L228.0 51.2Q229.2 46.4 228.0 42ZM177.6 24.4L177.6 24.4Q178.0 24 180.2 24.2Q182.4 24.4 182.8 25.2L182.8 25.2Q184.0 25.6 185.8 27.2Q187.6 28.8 188.0 29.6L188.0 29.6Q188.4 30.4 188.4 32L188.4 32Q188.4 33.6 187.8 34.8Q187.2 36 184.4 39.2L184.4 39.2Q182.8 41.2 182.6 41.8Q182.4 42.4 181.8 42.8Q181.2 43.2 181.2 44Q181.2 44.8 180.8 45.2L180.8 45.2Q179.2 46.4 176.8 52L176.8 52Q176.0 54.8 175.6 55.4Q175.2 56 174.2 57.4Q173.2 58.8 172.8 60.4L172.8 60.4L172.0 61.6L173.2 63.6Q175.2 65.6 175.6 66.8L175.6 66.8Q176.0 68 177.0 70.6Q178.0 73.2 178.0 74.8Q178.0 76.4 178.2 77Q178.4 77.6 178.8 82L178.8 82Q179.2 87.2 179.6 87.2L179.6 87.2Q180.8 87.2 181.2 86L181.2 86Q181.6 85.2 182.0 84.6Q182.4 84 182.6 83.8Q182.8 83.6 183.6 83.6L183.6 83.6Q183.6 83.6 183.6 85Q183.6 86.4 183.8 87.8Q184.0 89.2 183.4 89.8Q182.8 90.4 182.8 91.2Q182.8 92 182.0 94.4L182.0 94.4L181.6 95.6L179.6 95.6Q177.6 95.6 175.6 93.2L175.6 93.2Q174.8 91.6 174.8 90.4L174.8 90.4Q173.2 88.4 173.6 80.4L173.6 80.4Q175.2 73.2 173.6 70L173.6 70Q173.2 67.2 172.4 64.4L172.4 64.4Q171.6 63.6 170.0 62.6Q168.4 61.6 168.0 60.8L168.0 60.8Q167.2 60.4 166.8 58.8Q166.4 57.2 166.4 56.8L166.4 56.8Q166.8 55.2 170.2 48.4Q173.6 41.6 177.6 35.2L177.6 35.2Q181.2 29.2 181.2 28L181.2 28Q181.2 27.2 180.2 26.6Q179.2 26 178.4 25.6L178.4 25.6Q176.8 25.2 177.6 24.4ZM213.2 8L213.2 8Q218.4 10.8 216.0 17.6L216.0 17.6Q214.0 22.4 212.8 24.4L212.8 24.4Q210.8 26 209.0 30Q207.2 34 207.6 34.8L207.6 34.8Q207.6 34.8 208.8 34L208.8 34Q213.2 31.6 216.4 32L216.4 32Q219.2 32.4 219.6 33.2L219.6 33.2Q220.4 35.2 219.6 37.6L219.6 37.6Q218.8 40 215.2 46.4L215.2 46.4Q211.2 52.4 211.2 53.6L211.2 53.6Q211.2 53.6 211.6 53.6Q212.0 53.6 212.6 53.2Q213.2 52.8 213.6 52.8L213.6 52.8Q218.4 52 220.4 54.8L220.4 54.8Q222.0 56 222.8 58.8L222.8 58.8Q224.8 64.8 222.8 71.6L222.8 71.6Q222.0 74 222.2 74.2Q222.4 74.4 224.8 75.6L224.8 75.6Q230.8 79.2 234.4 83.2L234.4 83.2Q237.2 87.2 238.4 90.8Q239.6 94.4 238.8 98.8L238.8 98.8Q238.8 102.4 237.6 102.4L237.6 102.4Q237.2 102.8 237.2 102.6Q237.2 102.4 237.2 101.2L237.2 101.2Q237.2 100.4 236.4 97.6Q235.6 94.8 235.2 93.2L235.2 93.2Q234.4 91.6 232.2 89Q230.0 86.4 229.2 85.2L229.2 85.2Q225.6 82.4 222.0 80L222.0 80L220.4 79.2L219.6 80Q219.2 80.8 218.8 82L218.8 82Q216.8 84.8 213.2 86.4L213.2 86.4Q205.6 90.4 204.4 88L204.4 88Q204.0 87.2 201.2 85.6L201.2 85.6Q198.8 84.8 198.0 84Q197.2 83.2 196.8 80.8L196.8 80.8Q194.8 78 196.4 76.4L196.4 76.4Q196.8 75.2 198.6 74.4Q200.4 73.6 201.2 73.2L201.2 73.2Q205.6 72.8 212.0 72.8L212.0 72.8Q216.0 73.2 216.4 72.8L216.4 72.8Q216.8 71.6 218.4 67.6L218.4 67.6Q219.2 64 218.8 61Q218.4 58 216.8 56.8L216.8 56.8Q216.4 56 216.0 56Q215.6 56 214.0 57.2L214.0 57.2Q212.0 58 210.8 58.4L210.8 58.4Q209.6 58.8 208.0 61.6L208.0 61.6Q207.2 63.2 206.4 63.2L206.4 63.2Q206.0 63.6 204.8 62.2Q203.6 60.8 203.2 59.6L203.2 59.6Q202.8 58.4 203.0 57.6Q203.2 56.8 204.4 54.8L204.4 54.8Q210.4 45.6 213.2 40L213.2 40Q216.0 34.8 215.0 34.8Q214.0 34.8 208.8 39.2L208.8 39.2Q204.8 42 204.4 42Q204.0 42 202.6 40Q201.2 38 201.2 37.2Q201.2 36.4 202.8 34L202.8 34Q204.0 30.8 207.0 21.4Q210.0 12 210.0 10L210.0 10Q210.0 9.6 209.6 8.4Q209.2 7.2 209.4 7Q209.6 6.8 209.8 6.8Q210.0 6.8 211.0 7Q212.0 7.2 213.2 8ZM200.8 75.6L200.8 75.6Q199.6 75.2 198.4 76.4L198.4 76.4Q197.2 77.6 198.0 79.2L198.0 79.2Q198.4 79.6 199.8 81Q201.2 82.4 202.0 82.4L202.0 82.4Q202.8 82.8 205.8 82.4Q208.8 82 209.6 80.8L209.6 80.8Q210.4 80.4 211.8 79.2Q213.2 78 213.2 78L213.2 78Q212.8 77.2 204.8 76.8L204.8 76.8Q202.0 76.4 200.8 75.6Z"/></svg><span class="visually-hidden">Qin Xujun</span></h1>
-<p class="lede">Code is getting cheap. What stays scarce is defining the problem, curating context, and verifying the result.</p>
+<p class="lede">Use natural language to create working products.</p>
 <p class="now">I’m Qin Xujun, a Cloud AI Project Manager at Aopu Intelligent Technology. Outside work, I build the tools I want to use.</p>
 <p class="actions"><a class="button primary" href="#contact">Add me on WeChat</a><a class="button" href="#work">See my work</a></p>
 </header>
@@ -65,7 +65,7 @@
 </li>
 <li id="vibecoding">
 <h3>ai.vibecoding</h3>
-<p class="tagline">Use natural language to create working products.</p>
+<p class="tagline">Natural-language programming, done as engineering.</p>
 <p class="desc">My method for building with natural language: interview first, then plan, then verify with evidence. Seven prompts you can copy as they are.</p>
 <p class="links"><a href="https://qinxujunai.github.io/qinxujun-ai-vibecoding/" rel="noopener">Website<span class="visually-hidden">: ai.vibecoding</span></a><a href="https://github.com/qinxujunai/qinxujun-ai-vibecoding" rel="noopener">Source<span class="visually-hidden">: ai.vibecoding</span></a></p>
 </li>

diff --git a/404.html b/404.html
@@ -4,7 +4,7 @@
 <meta charset="utf-8">
 <meta name="viewport" content="width=device-width, initial-scale=1, viewport-fit=cover">
 <title>这一页不存在 · 秦徐俊</title>
-<meta name="description" content="代码正在变得廉价。真正稀缺的，是定义问题、组织上下文、验证结果的能力。秦徐俊的个人网站，作品有 VoiceFlow、万象成文、ai.vibecoding。">
+<meta name="description" content="用自然语言，创造可运行的作品。秦徐俊的个人网站，作品有 VoiceFlow、万象成文、ai.vibecoding。">
 <meta name="color-scheme" content="light dark">
 <meta name="theme-color" content="#ffffff">
 <script>(function(){var t=null;try{t=localStorage.getItem('qxj.theme')}catch(e){}if(t!=='light'&&t!=='dark'){t=window.matchMedia&&matchMedia('(prefers-color-scheme: dark)').matches?'dark':'light'}document.documentElement.dataset.theme=t;var m=document.querySelector('meta[name=theme-color]');if(m)m.setAttribute('content',t==='dark'?'#121316':'#ffffff');var r=document.documentElement,s=null;try{s=sessionStorage.getItem('qxj.signed')}catch(e){}if(s!=='1'&&!(window.matchMedia&&matchMedia('(prefers-reduced-motion: reduce)').matches)){r.classList.add('sig-pending');setTimeout(function(){r.classList.remove('sig-pending')},3000)}})()</script>
@@ -14,7 +14,7 @@
 <meta name="robots" content="noindex">
 <meta property="og:type" content="website">
 <meta property="og:title" content="这一页不存在 · 秦徐俊">
-<meta property="og:description" content="代码正在变得廉价。真正稀缺的，是定义问题、组织上下文、验证结果的能力。秦徐俊的个人网站，作品有 VoiceFlow、万象成文、ai.vibecoding。">
+<meta property="og:description" content="用自然语言，创造可运行的作品。秦徐俊的个人网站，作品有 VoiceFlow、万象成文、ai.vibecoding。">
 <meta property="og:url" content="https://qinxujunai.github.io/404.html">
 <meta property="og:image" content="https://qinxujunai.github.io/og.png">
 <meta property="og:image:width" content="1200">

diff --git a/assets/site.css b/assets/site.css
@@ -184,21 +184,23 @@ a:hover {
   overflow: visible;
 }
 
-/* Chinese breaks only at punctuation and spaces here, so no phrase is split. */
-.lede {
-  font-size: 22px;
-  line-height: 1.6;
-  font-weight: 600;
-  letter-spacing: 0.01em;
+/* Chinese text carries <wbr> between words (added at build time); keep-all forbids breaks elsewhere. */
+:lang(zh-CN) p,
+:lang(zh-CN) h3 {
   word-break: keep-all;
   overflow-wrap: anywhere;
+}
+
+.lede {
+  font-size: 28px;
+  line-height: 1.45;
+  font-weight: 600;
+  letter-spacing: 0.01em;
   max-width: 30em;
 }
 
 :lang(en) .lede {
   letter-spacing: -0.012em;
-  word-break: normal;
-  overflow-wrap: normal;
 }
 
 .now {
@@ -477,8 +479,8 @@ footer a {
   }
 
   .lede {
-    font-size: 26px;
-    line-height: 1.5;
+    font-size: 36px;
+    line-height: 1.4;
   }
 
   section {
@@ -492,18 +494,7 @@ footer a {
   }
 
   .work {
-    grid-template-columns: repeat(3, 1fr);
-    gap: 32px;
-  }
-
-  .work li {
-    display: flex;
-    flex-direction: column;
-  }
-
-  .work .links {
-    margin-top: auto;
-    padding-top: 8px;
+    gap: 40px;
   }
 }
 
